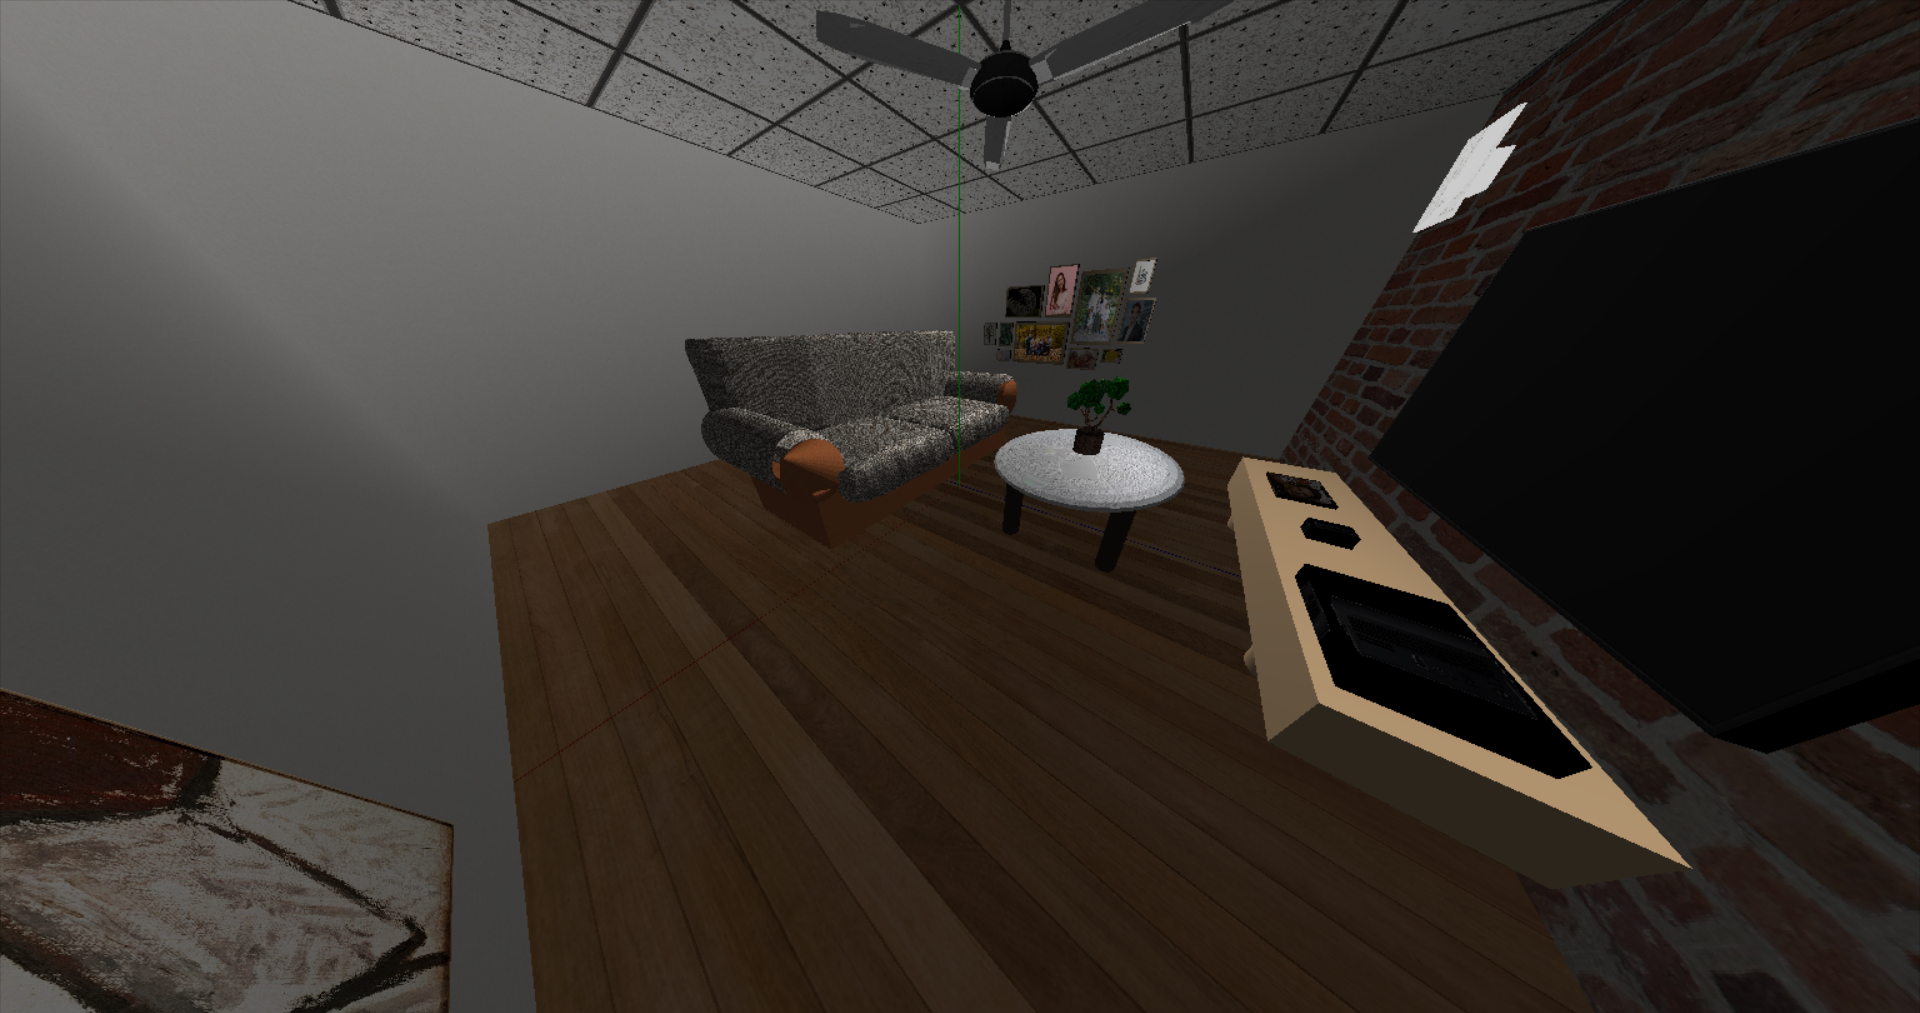
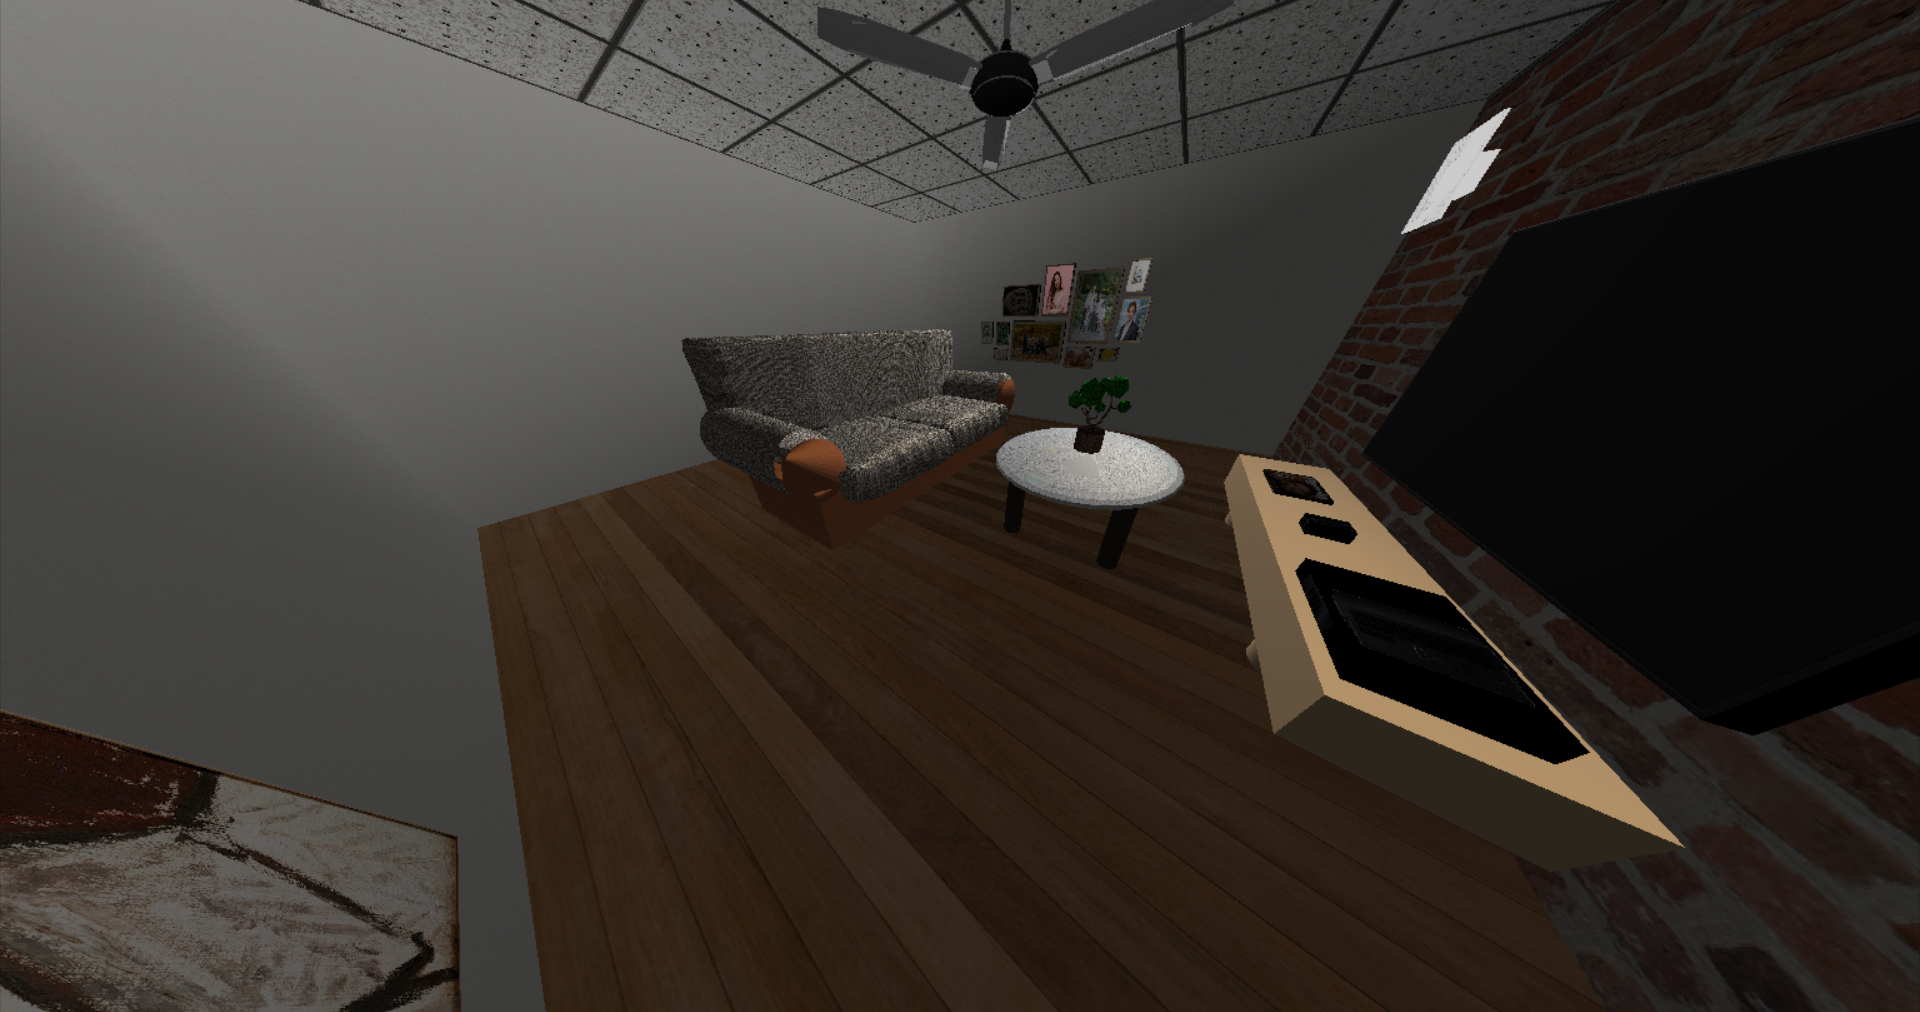
small material changes

diff --git a/ProjectLivingRooom/main.cpp b/ProjectLivingRooom/main.cpp
@@ -123,6 +123,20 @@ void initLight() {
     glMateriali(GL_FRONT, GL_SHININESS, 50);
 }
 
+void setMaterials() {
+    float mat_ambient[] = { 0.329f, 0.223f, 0.0274f, 1.0f };
+    float mat_diffuse[] = { 0.780f, 0.568f, 0.113f, 1.0f };
+    float mat_specular[] = { 0.992f, 0.941f, 0.807f, 1.0f };
+
+    float shine[] = { 27.897f };
+
+    glMaterialfv(GL_FRONT, GL_DIFFUSE, mat_diffuse);
+    glMaterialfv(GL_FRONT, GL_AMBIENT, mat_ambient);
+    glMaterialfv(GL_FRONT, GL_SPECULAR, mat_specular);
+    glMaterialfv(GL_FRONT, GL_SHININESS, shine);
+}
+
+
 void drawAxes() {
 
     glBegin(GL_LINES);
@@ -787,6 +801,7 @@ void display() {
 
     glClear(GL_COLOR_BUFFER_BIT | GL_DEPTH_BUFFER_BIT);
 
+    setMaterials();
 
     glPushMatrix();
 
@@ -803,7 +818,7 @@ void display() {
 
     glColor3f(1.0, 1.0, 1.0);
 
-    DrawGrid();
+    //DrawGrid();
 
     //walls, floor and ceiling
     glPushMatrix();
@@ -863,7 +878,7 @@ void display() {
         glPopMatrix();
     glPopMatrix();
 
-    drawAxes();
+    //drawAxes();
     glPopMatrix();
 
     //glTranslatef(pos_x, pos_y, pos_z);
@@ -915,10 +930,10 @@ void keyboardSpecial(int key, int x, int y) {
         moveZ -= 1;
 
     if (key == GLUT_KEY_LEFT)
-        rotY -= 5.0;
+        rotY -= 2.0;
 
     if (key == GLUT_KEY_RIGHT)
-        rotY += 5.0;
+        rotY += 2.0;
 
     glutPostRedisplay();
 }
